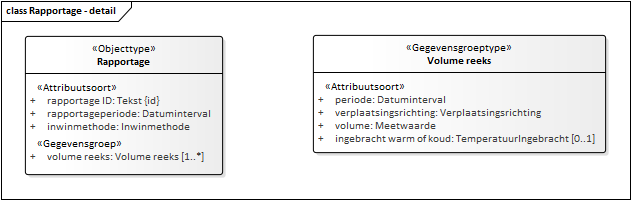
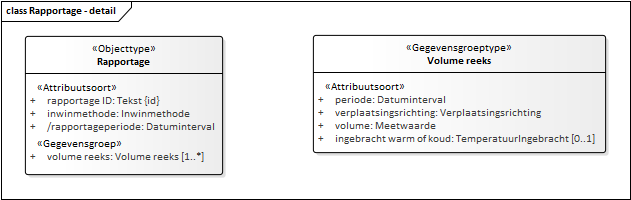
Conceptualmodel-GrondwaterproductiedossierGPDconceptueel-0.98-1-20210610-20210709-133324

Changed region(s): [[0.0602, 0.54, 0.3613, 0.66]]

diff --git a/data/GPD-cat.msword.html b/data/GPD-cat.msword.html
@@ -15,7 +15,7 @@
    <body>
       <p>Conceptual model/Grondwaterproductiedossier (GPD) conceptueel/20210610</p>
       <p>Imvertor: 1.64.2</p>
-      <p>Model release: Conceptualmodel-GrondwaterproductiedossierGPDconceptueel-0.98-1-20210610-20210702-150704</p>
+      <p>Model release: Conceptualmodel-GrondwaterproductiedossierGPDconceptueel-0.98-1-20210610-20210709-133324</p>
       <hr>
       <section>
          <h1>Artikel 1 Definitie van registratieobject, entiteiten en attributen</h1>
@@ -344,7 +344,7 @@
                            </tr>
                         </tbody>
                      </table>
-                     </section><a class="anchor" id="detail_d17536e1523"></a><section id="detail_d17536e1523">
+                     </section><a class="anchor" id="detail_d17581e1523"></a><section id="detail_d17581e1523">
                      <h4>  registratiegeschiedenis</h4>
                      <table style="width: 100%;">
                         <colgroup style="width: 30%;"></colgroup>
@@ -385,7 +385,7 @@
                            </tr>
                         </tbody>
                      </table>
-                  </section><a class="anchor" id="detail_d17536e1732"></a><section id="detail_d17536e1732">
+                  </section><a class="anchor" id="detail_d17581e1732"></a><section id="detail_d17581e1732">
                      <h4>  levensduur</h4>
                      <table style="width: 100%;">
                         <colgroup style="width: 30%;"></colgroup>
@@ -415,6 +415,13 @@
                               <th>Gegevensgroeptype</th>
                               <td>
                                  <a class="link" href="#global_class_GPD_TijdvakLevensduur">TijdvakLevensduur</a>
+                                 </td>
+                           </tr>
+                           <tr>
+                              <th>Regels</th>
+                              <td>
+                                 
+                                 <p>De <em>eindtijd</em> is gelijk aan de meest recente <em>einddatum</em> van <em>rapportageperiode</em>. </p>
                                  </td>
                            </tr>
                            <tr>
@@ -547,6 +554,42 @@
                            </tr>
                         </tbody>
                      </table>
+                     </section><a class="anchor" id="detail_attribute_GPD_Rapportage_inwinmethode"></a><section id="detail_attribute_GPD_Rapportage_inwinmethode">
+                     <h4>  inwinmethode</h4>
+                     
+                     <table style="width: 100%;">
+                        <colgroup style="width: 30%;"></colgroup>
+                        <colgroup style="width: 70%;"></colgroup>
+                        <tbody>
+                           <tr>
+                              <th>Type gegeven</th>
+                              <td>Attribuut van Rapportage</td>
+                           </tr>
+                           <tr>
+                              <th>Definitie</th>
+                              <td>
+                                 
+                                 <p>De methode waarmee de volumes van de <em>Volume reeks</em> zijn bepaald.</p>
+                                 </td>
+                           </tr>
+                           <tr>
+                              <th>Juridische status</th>
+                              <td>Authentiek</td>
+                           </tr>
+                           <tr>
+                              <th>Kardinaliteit</th>
+                              <td>1</td>
+                           </tr>
+                           <tr>
+                              <th>Domein</th>
+                              <td></td>
+                           </tr>
+                           <tr>
+                              <th>&nbsp;&nbsp;Naam</th>
+                              <td>Inwinmethode</td>
+                           </tr>
+                        </tbody>
+                     </table>
                      </section><a class="anchor" id="detail_attribute_GPD_Rapportage_rapportageperiode"></a><section id="detail_attribute_GPD_Rapportage_rapportageperiode">
                      <h4>  rapportageperiode</h4>
                      
@@ -586,50 +629,16 @@
                               <th>Toelichting</th>
                               <td>
                                  
-                                 <p>Bij jaaropgaven betreft het een kalenderjaar. Bij tijdelijke onttrekkingen of in de
-                                    bodem brengen, zoals bijvoorbeeld bij bronneringen, komt het voor dat de rapportage
+                                 <p>De gegevens staan niet in een brondocument maar worden automatisch door de basisregistratie
+                                    ondergrond gegenereerd.<br clear="none">
+                                    Bij jaaropgaven zal het een kalenderjaar betreffen. Bij tijdelijke onttrekkingen of
+                                    in de bodem brengen, zoals bijvoorbeeld bij bronneringen, komt het voor dat de rapportage
                                     een specifieke periode bestrijkt. </p>
                                  </td>
                            </tr>
                         </tbody>
                      </table>
-                     </section><a class="anchor" id="detail_attribute_GPD_Rapportage_inwinmethode"></a><section id="detail_attribute_GPD_Rapportage_inwinmethode">
-                     <h4>  inwinmethode</h4>
-                     
-                     <table style="width: 100%;">
-                        <colgroup style="width: 30%;"></colgroup>
-                        <colgroup style="width: 70%;"></colgroup>
-                        <tbody>
-                           <tr>
-                              <th>Type gegeven</th>
-                              <td>Attribuut van Rapportage</td>
-                           </tr>
-                           <tr>
-                              <th>Definitie</th>
-                              <td>
-                                 
-                                 <p>De methode waarmee de volumes van de <em>Volume reeks</em> zijn bepaald.</p>
-                                 </td>
-                           </tr>
-                           <tr>
-                              <th>Juridische status</th>
-                              <td>Authentiek</td>
-                           </tr>
-                           <tr>
-                              <th>Kardinaliteit</th>
-                              <td>1</td>
-                           </tr>
-                           <tr>
-                              <th>Domein</th>
-                              <td></td>
-                           </tr>
-                           <tr>
-                              <th>&nbsp;&nbsp;Naam</th>
-                              <td>Inwinmethode</td>
-                           </tr>
-                        </tbody>
-                     </table>
-                     </section><a class="anchor" id="detail_d17536e2735"></a><section id="detail_d17536e2735">
+                     </section><a class="anchor" id="detail_d17581e2798"></a><section id="detail_d17581e2798">
                      <h4>  volume reeks</h4>
                      <table style="width: 100%;">
                         <colgroup style="width: 30%;"></colgroup>
@@ -714,8 +723,8 @@
                               <th>Regels</th>
                               <td>
                                  
-                                 <p>Het BRO-ID van Gerelateerde grondwatergebruiksysteem moet bij alle Rapportages van
-                                    dit registratieobject gelijk zijn.</p>
+                                 <p>Het BRO-ID van het gerelateerde Grondwatergebruiksysteem moet bij alle Rapportages
+                                    van dit registratieobject gelijk zijn.</p>
                                  </td>
                            </tr>
                            <tr>
@@ -786,6 +795,14 @@
                            <tr>
                               <th>&nbsp;&nbsp;Naam</th>
                               <td>Datuminterval</td>
+                           </tr>
+                           <tr>
+                              <th>Regels</th>
+                              <td>
+                                 
+                                 <p>De <em>begindatum</em> mag niet liggen voor de <em>begintijd</em> van <em>levensduur</em> van <em>Grondwatergebruiksysteem.</em>
+                                    </p>
+                                 </td>
                            </tr>
                         </tbody>
                      </table>

diff --git a/data/GPD-cat.respec.html b/data/GPD-cat.respec.html
@@ -320,7 +320,7 @@
                   </tr>
                </tbody>
             </table>
-            </section><a class="anchor" id="detail_d17536e1523"></a><section id="detail_d17536e1523">
+            </section><a class="anchor" id="detail_d17581e1523"></a><section id="detail_d17581e1523">
             <h4>  registratiegeschiedenis</h4>
             <table style="width: 100%;">
                <colgroup style="width: 30%;"></colgroup>
@@ -361,7 +361,7 @@
                   </tr>
                </tbody>
             </table>
-         </section><a class="anchor" id="detail_d17536e1732"></a><section id="detail_d17536e1732">
+         </section><a class="anchor" id="detail_d17581e1732"></a><section id="detail_d17581e1732">
             <h4>  levensduur</h4>
             <table style="width: 100%;">
                <colgroup style="width: 30%;"></colgroup>
@@ -391,6 +391,13 @@
                      <th>Gegevensgroeptype</th>
                      <td>
                         <a class="link" href="#global_class_GPD_TijdvakLevensduur">TijdvakLevensduur</a>
+                        </td>
+                  </tr>
+                  <tr>
+                     <th>Regels</th>
+                     <td>
+                        
+                        <p>De <em>eindtijd</em> is gelijk aan de meest recente <em>einddatum</em> van <em>rapportageperiode</em>. </p>
                         </td>
                   </tr>
                   <tr>
@@ -523,6 +530,42 @@
                   </tr>
                </tbody>
             </table>
+            </section><a class="anchor" id="detail_attribute_GPD_Rapportage_inwinmethode"></a><section id="detail_attribute_GPD_Rapportage_inwinmethode">
+            <h4>  inwinmethode</h4>
+            
+            <table style="width: 100%;">
+               <colgroup style="width: 30%;"></colgroup>
+               <colgroup style="width: 70%;"></colgroup>
+               <tbody>
+                  <tr>
+                     <th>Type gegeven</th>
+                     <td>Attribuut van Rapportage</td>
+                  </tr>
+                  <tr>
+                     <th>Definitie</th>
+                     <td>
+                        
+                        <p>De methode waarmee de volumes van de <em>Volume reeks</em> zijn bepaald.</p>
+                        </td>
+                  </tr>
+                  <tr>
+                     <th>Juridische status</th>
+                     <td>Authentiek</td>
+                  </tr>
+                  <tr>
+                     <th>Kardinaliteit</th>
+                     <td>1</td>
+                  </tr>
+                  <tr>
+                     <th>Domein</th>
+                     <td></td>
+                  </tr>
+                  <tr>
+                     <th>&nbsp;&nbsp;Naam</th>
+                     <td>Inwinmethode</td>
+                  </tr>
+               </tbody>
+            </table>
             </section><a class="anchor" id="detail_attribute_GPD_Rapportage_rapportageperiode"></a><section id="detail_attribute_GPD_Rapportage_rapportageperiode">
             <h4>  rapportageperiode</h4>
             
@@ -562,50 +605,16 @@
                      <th>Toelichting</th>
                      <td>
                         
-                        <p>Bij jaaropgaven betreft het een kalenderjaar. Bij tijdelijke onttrekkingen of in de
-                           bodem brengen, zoals bijvoorbeeld bij bronneringen, komt het voor dat de rapportage
+                        <p>De gegevens staan niet in een brondocument maar worden automatisch door de basisregistratie
+                           ondergrond gegenereerd.<br clear="none">
+                           Bij jaaropgaven zal het een kalenderjaar betreffen. Bij tijdelijke onttrekkingen of
+                           in de bodem brengen, zoals bijvoorbeeld bij bronneringen, komt het voor dat de rapportage
                            een specifieke periode bestrijkt. </p>
                         </td>
                   </tr>
                </tbody>
             </table>
-            </section><a class="anchor" id="detail_attribute_GPD_Rapportage_inwinmethode"></a><section id="detail_attribute_GPD_Rapportage_inwinmethode">
-            <h4>  inwinmethode</h4>
-            
-            <table style="width: 100%;">
-               <colgroup style="width: 30%;"></colgroup>
-               <colgroup style="width: 70%;"></colgroup>
-               <tbody>
-                  <tr>
-                     <th>Type gegeven</th>
-                     <td>Attribuut van Rapportage</td>
-                  </tr>
-                  <tr>
-                     <th>Definitie</th>
-                     <td>
-                        
-                        <p>De methode waarmee de volumes van de <em>Volume reeks</em> zijn bepaald.</p>
-                        </td>
-                  </tr>
-                  <tr>
-                     <th>Juridische status</th>
-                     <td>Authentiek</td>
-                  </tr>
-                  <tr>
-                     <th>Kardinaliteit</th>
-                     <td>1</td>
-                  </tr>
-                  <tr>
-                     <th>Domein</th>
-                     <td></td>
-                  </tr>
-                  <tr>
-                     <th>&nbsp;&nbsp;Naam</th>
-                     <td>Inwinmethode</td>
-                  </tr>
-               </tbody>
-            </table>
-            </section><a class="anchor" id="detail_d17536e2735"></a><section id="detail_d17536e2735">
+            </section><a class="anchor" id="detail_d17581e2798"></a><section id="detail_d17581e2798">
             <h4>  volume reeks</h4>
             <table style="width: 100%;">
                <colgroup style="width: 30%;"></colgroup>
@@ -690,8 +699,8 @@
                      <th>Regels</th>
                      <td>
                         
-                        <p>Het BRO-ID van Gerelateerde grondwatergebruiksysteem moet bij alle Rapportages van
-                           dit registratieobject gelijk zijn.</p>
+                        <p>Het BRO-ID van het gerelateerde Grondwatergebruiksysteem moet bij alle Rapportages
+                           van dit registratieobject gelijk zijn.</p>
                         </td>
                   </tr>
                   <tr>
@@ -762,6 +771,14 @@
                   <tr>
                      <th>&nbsp;&nbsp;Naam</th>
                      <td>Datuminterval</td>
+                  </tr>
+                  <tr>
+                     <th>Regels</th>
+                     <td>
+                        
+                        <p>De <em>begindatum</em> mag niet liggen voor de <em>begintijd</em> van <em>levensduur</em> van <em>Grondwatergebruiksysteem.</em>
+                           </p>
+                        </td>
                   </tr>
                </tbody>
             </table>
